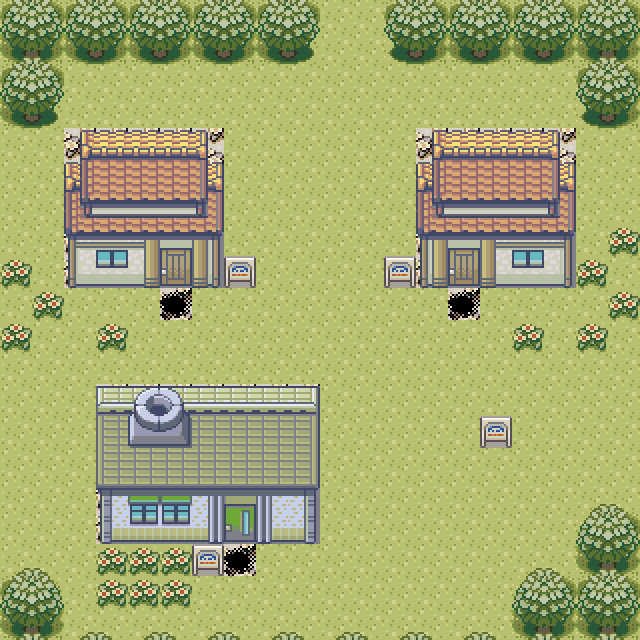
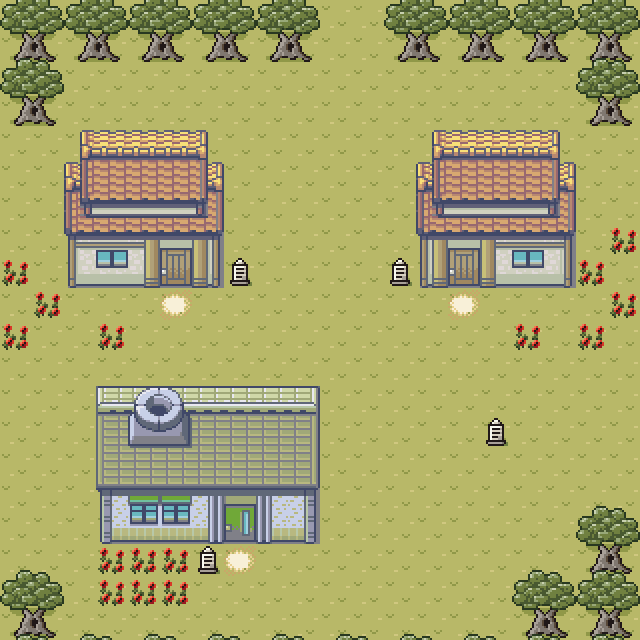
docs(design): document aethos for map builders and render its review images
Map builders need every element's metatile ids, the tree-stacking and
ledge rules, the building footprints and doors, and the Porytiles rules
that keep Petalburg's references intact. TILES_aethos.md lists them,
with what is still Hoenn (door animations, field effects, Petalburg's own
art) and what was only retextured (the cliff set).

The renders are regenerated by tools/ichor/art/aethos_images.py. Littleroot
on aethos + petalburg is a raw render and shows no stray tiles.

Changed region(s): [[0.0, 0.0, 1.0, 1.0]]

diff --git a/tools/ichor/art/aethos_images.py b/tools/ichor/art/aethos_images.py
@@ -1,0 +1,107 @@
+#!/usr/bin/env python3
+"""Regenerate aethos's review images in design/phase1/img/.
+
+  aethos_route101.png    LAYOUT_ROUTE101 on aethos, 2x
+  aethos_littleroot.png  LAYOUT_LITTLEROOT_TOWN on aethos + petalburg, 2x
+                         (raw: Petalburg's tile references are pinned)
+  aethos_village.png     a mock village block built only from aethos
+                         metatiles (throwaway block data, not a map), 2x
+  aethos_coast.png       part of LAYOUT_ROUTE109 on aethos, 2x (Slateport's
+                         own primary references remapped, see aethos_review)
+  aethos_sheet.png       the numbered metatile sheet, 2x
+  aethos_anims.png       every animation, key frame first, 3x
+
+Usage: /usr/bin/python3 tools/ichor/art/aethos_images.py
+"""
+import subprocess
+import sys
+import tempfile
+from pathlib import Path
+
+import numpy as np
+from PIL import Image, ImageDraw, ImageFont
+
+ROOT = Path(__file__).resolve().parents[3]
+IMG = ROOT / "design/phase1/img"
+PY = sys.executable
+RENDER = ROOT / "tools/ichor/render_map.py"
+REVIEW = ROOT / "tools/ichor/art/aethos_review.py"
+
+VILLAGE = """
+1CE 1CF 001 001 001 001 001 001 001 001 001 001 001 001 001 001 001 001 001 001 001 001 1CE 1CF
+1D4 1D5 00E 001 001 001 001 048 049 04A 04B 001 001 028 029 029 02B 001 001 00E 01E 01F 1D4 1D5
+1DC 1DD 016 001 001 001 001 050 051 052 053 001 001 030 031 032 033 001 001 016 026 027 1DC 1DD
+1D4 1D5 004 004 001 001 001 058 059 05A 05B 001 001 038 039 03A 03B 001 001 001 001 001 1D4 1D5
+1E4 1E5 004 001 001 003 001 060 061 062 063 001 001 060 041 042 043 001 01B 001 001 001 1DC 1DD
+001 001 001 001 1D0 1D1 1D1 1D1 1D1 1D1 1D1 1D1 1D1 1D1 1D1 1D1 1D1 1D1 1D1 1D2 001 001 1D4 1D5
+1CE 1CF 001 001 1D8 1D9 1D9 1D9 1D9 1D9 1D9 1D9 1D9 1D9 1D9 1D9 1D9 1D9 1D9 1DA 001 0E0 1E4 1E5
+1D4 1D5 001 001 1E0 1E1 1E1 1E1 1E1 1E1 1E1 1E1 1E1 1E1 1E1 1E1 1E1 1E1 1E1 1E2 001 001 001 001
+1E4 1E5 148 149 149 149 14A 001 001 008 009 00A 001 00D 00D 00D 00D 00D 001 001 004 001 001 001
+001 001 001 004 001 001 001 001 001 010 011 012 001 00D 00D 00D 00D 00D 00D 001 001 001 001 001
+001 001 001 001 001 001 001 001 001 018 019 01A 001 00D 00D 00D 00D 00D 00D 001 001 001 001 001
+001 0D5 087 087 087 087 0D6 001 001 020 021 022 001 001 00D 00D 00D 001 001 001 001 001 001 001
+124 124 124 124 124 124 124 124 124 124 124 124 124 124 124 124 124 124 124 124 124 124 124 124
+12C 12C 12C 12C 12C 12C 12C 12C 12C 12C 12C 12C 12C 12C 12C 12C 12C 12C 12C 12C 12C 12C 12C 12C
+170 170 170 18C 170 170 170 170 170 170 170 170 170 170 170 170 170 18C 170 170 170 170 170 170
+170 170 170 170 170 170 170 170 170 170 170 170 170 170 170 170 170 170 170 170 170 170 170 170
+"""
+
+
+def run(*args):
+    r = subprocess.run([PY, *map(str, args)], cwd=ROOT, capture_output=True, text=True)
+    if r.returncode:
+        sys.exit(r.stdout + r.stderr)
+
+
+def anims(out, scale=3):
+    base = ROOT / "data/tilesets/primary/aethos/porytiles_src/anim"
+    rows = []
+    for name in ("water", "sand_water_edge", "waterfall", "flower", "land_water_edge"):
+        d = base / name
+        names = ["key"] + sorted([p.stem for p in d.glob("*.png") if p.stem != "key"], key=int)
+        rows.append((name, [Image.open(d / f"{n}.png").convert("RGBA") for n in names]))
+    pad, lab = 6, 14
+    W = max(sum(i.width * scale + pad for i in fr) for _, fr in rows) + pad
+    H = sum(max(i.height for i in fr) * scale + lab + pad for _, fr in rows) + pad
+    sheet = Image.new("RGB", (W, H), (40, 40, 48))
+    d = ImageDraw.Draw(sheet)
+    font = ImageFont.load_default(size=11)
+    y = pad
+    for name, fr in rows:
+        d.text((pad, y), f"{name}: key, then frames", fill=(230, 230, 200), font=font)
+        x = pad
+        for im in fr:
+            bg = Image.new("RGBA", im.size, (24, 40, 80, 255))
+            px = np.array(im)
+            px[(px[..., :3] == (255, 0, 255)).all(-1)] = 0
+            bg.alpha_composite(Image.fromarray(px))
+            sheet.paste(bg.convert("RGB").resize((im.width * scale, im.height * scale), Image.NEAREST),
+                        (x, y + lab))
+            x += im.width * scale + pad
+        y += max(i.height for i in fr) * scale + lab + pad
+    sheet.save(out)
+
+
+def main():
+    IMG.mkdir(parents=True, exist_ok=True)
+    run(RENDER, "LAYOUT_ROUTE101", "--primary", "aethos", "--scale", 2, "-o", IMG / "aethos_route101.png")
+    run(RENDER, "LAYOUT_LITTLEROOT_TOWN", "--primary", "aethos", "--secondary", "petalburg",
+        "--scale", 2, "-o", IMG / "aethos_littleroot.png")
+    with tempfile.TemporaryDirectory() as tmp:
+        rows = [r.split() for r in VILLAGE.strip().split("\n")]
+        blocks = np.array([[int(v, 16) for v in r] for r in rows], np.uint16)
+        bin_path = Path(tmp) / "aethos_village.bin"
+        blocks.tofile(bin_path)
+        run(RENDER, "--blockdata", bin_path, "--width", blocks.shape[1], "--primary", "aethos",
+            "--secondary", "petalburg", "--scale", 2, "-o", IMG / "aethos_village.png")
+        full = Path(tmp) / "r109.png"
+        run(REVIEW, "LAYOUT_ROUTE109", "--remap", "--scale", 1, "-o", full)
+        im = Image.open(full).crop((0, 400, 480, 720))
+        im.resize((im.width * 2, im.height * 2), Image.NEAREST).save(IMG / "aethos_coast.png")
+    run(RENDER, "--sheet", "aethos", "--scale", 2, "-o", IMG / "aethos_sheet.png")
+    anims(IMG / "aethos_anims.png")
+    print("wrote", ", ".join(sorted(p.name for p in IMG.glob("aethos_*.png"))))
+
+
+if __name__ == "__main__":
+    main()

diff --git a/design/phase1/TILES_aethos.md b/design/phase1/TILES_aethos.md
@@ -1,0 +1,233 @@
+# aethos: the outdoor primary tileset
+
+`gTileset_Aethos` is Aethos's outdoor world. It replaces vanilla `gTileset_General` and keeps every one of General's 512 metatile ids, behaviors and layer types. Any layout built on General therefore means the same thing on aethos: the same tree is a tree, the same ledge jumps the same way.
+
+The art is redrawn from scratch: olives, cypresses and stone pines; sun-bleached grass and wild barley; limestone paths and dry-stone terraces; the Aegean; and marble buildings.
+
+## Images (`design/phase1/img/`)
+
+| File | What |
+|---|---|
+| `aethos_route101.png` | `LAYOUT_ROUTE101`, `--primary aethos`, 2× |
+| `aethos_littleroot.png` | `LAYOUT_LITTLEROOT_TOWN`, `--primary aethos --secondary petalburg`, 2×. A raw render with no remap: Petalburg's references into the primary are pinned (see Porytiles below). The houses are Petalburg's own art. |
+| `aethos_village.png` | A mock village block built only from aethos metatiles, 2×. Throwaway block data, not a map. |
+| `aethos_coast.png` | Part of `LAYOUT_ROUTE109`, 2×. Slateport's own references into the primary are remapped for the preview (`aethos_review.py --remap`). The umbrellas and chairs are Slateport's. |
+| `aethos_sheet.png` | The numbered metatile sheet, 2×. |
+| `aethos_anims.png` | Every animation, key frame first. |
+
+Regenerate the tileset with `/usr/bin/python3 tools/ichor/art/paint_aethos.py`, then the images with `tools/ichor/art/aethos_images.py`.
+
+## Metatile ids for map builders
+
+Collision lives in the map data, as before. Behaviors are General's: tall grass is `MB_TALL_GRASS`, ledges keep their jump direction, and doors are `MB_ANIMATED_DOOR`.
+
+### Ground
+
+| Id | Element |
+|---|---|
+| `001` | Grass |
+| `002` | Grass under a ledge or cliff lip (a thin shadow line on top) |
+| `01C` | Grass in deep shade |
+| `00D` | **Tall grass** (wild encounters): barley tufts with gold seed heads |
+| `015` | Long grass: reeds |
+| `004` | Red anemones (animated) |
+| `000` | Void (the night-sea backdrop) |
+
+**Limestone path patch.** `1D0` `1D1` `1D2` / `1D8` `1D9` `1DA` / `1E0` `1E1` `1E2`, laid out as TL T TR / L C R / BL B BR. `1D9` is the open path.
+
+**Tilled earth.** `103` `104` `105` / `10B` `10C` `10D` / `113` `114` `115`, in the same layout.
+- `10C`, `14C`, `12E` and `12F` are `MB_BERRY_TREE_SOIL`.
+- `14B` `14C` `14D` is a plot's top edge: corner, edge, corner.
+
+**Volcanic ash.** `100` `101` `102` / `108` `109` `10A` / `110` `111` `112`.
+
+### Trees
+
+The **olive** is 2×2, and its crown pokes 3 px into the row above on the top layer, so the player walks behind it.
+
+| Part | Ids |
+|---|---|
+| Top half | `1D4` `1D5` (`1D6` `1D7` are identical) |
+| Bottom half, nothing below | `1E4` `1E5` (`1E6` `1E7` identical) |
+| Bottom half, with the crown tip of an olive below it | `1DC` `1DD` (`1DE` `1DF`, `1F2` `1F3` identical) |
+| Crown tip in the row above, over grass | `1CE` `1CF` |
+| … over tall grass | `1C6` `1C7` |
+| … over ledge grass | `1E8` `1E9` |
+| … over ash | `1EA` `1EB` |
+| … over rock | `1EE` `1EF`, `1F0` `1F1` |
+| … over the sea | `1F6` `1F7` |
+| … over a pond | `1FE` `1FF` |
+| Olive top half on the top layer, over ledge grass | `1FC` `1FD` |
+
+**Stacking.** For a column of olives, use top, then bottom-with-tip, then top, and end with a plain bottom (`1E4` `1E5`).
+- Above the first olive, put a tip metatile (`1CE` `1CF`), or the crown is cut flat.
+- Below a bottom-with-tip, the next olive must start.
+
+The **cypress spire** is 1×2. Its top half is on the top layer.
+
+| Part | Ids |
+|---|---|
+| Top half, over grass | `00E`, `00F`, `0C6`, `0C7` (identical) |
+| … over ledge grass, tall grass, pond, sea, rock or a white kerb | `01D`, `025`, `02D`, `035` / `193`, `0CE`, `040` |
+| Bottom half | `016`, `017` (identical) |
+| Cypress top over an olive bottom | `1EC` `1ED` |
+| Cypress bottom under an olive tip | `1F4` `1F5` |
+
+The **stone pine** (General's secret-base tree) is 2×2.
+- Top: `01E` `01F` (`02E` `02F` identical).
+- Bottom: `026` `027`.
+- `036` `037` are the same with a dark hollow between the roots, the secret-base "open" spot.
+
+### Edges and props
+
+**Ledges** are dry-stone terrace lips. The ground under them comes from the family.
+
+| Ledge | S | W | E | SW | SE | S, left end | S, right end | Inner corner |
+|---|---|---|---|---|---|---|---|---|
+| on grass | `087` | `085` | `086` | `08D` | `08E` | `0D5` | `0D6` | `06E` |
+| on rock floor | `08F` | `095` | `096` | `09D` | `09E` | `0DD` | `0DE` | |
+| on sand | `097` | `0A5` | `0A6` | `0AD` | `0AE` | `0E5` | `0E6` | |
+
+More W/E lips: `0FE`/`0FF` and `106`/`107` (grass), `10E`/`10F` and `116`/`117` (rock), `11E`/`11F` and `126`/`127` (sand).
+
+A step-shaped ledge, as in Route 101: `0D5 087 … 08E` on the lower row, and `06E 087 … 0D6` on the row above it.
+
+**Dry-stone walls** (General's metal fence).
+
+| Wall | Ids |
+|---|---|
+| West–east, middle layer | `148` left end, `149` run, `14A` right end; `134` run |
+| West–east, top layer (walk behind it) | `138` left end, `13A` right end |
+| North–south, middle layer | `132` (west side of the tile), `133` (east side) |
+| North–south, top layer | `139`, `140` (west side); `141`, `142` (east side) |
+
+Set walls impassable in the collision data.
+
+**Signs and markers.**
+- `003`: a marble stele with a pediment and a gold finial. Use it for town and route signs (bg events, as before).
+- `01B`: a roadside herm, a stone pillar with a bearded head (General's trainer-tips board).
+- `130` (top layer) over `131`: a bronze tripod on a marble plinth (General's gym sign).
+
+**Rocks and other props.**
+- Boulders: `0E0` on grass, `0E1` on rock, `0E2` on sand.
+- Sea boulders with a foam ring: `0C5`, `0CD`, `18C` and `194` (middle layer), and `0BD` (top layer).
+- Marble steps: `0AF`, `0CF`.
+- Pebble mosaic threshold: `024` (`MB_SOUTH_ARROW_WARP`, the exit mat).
+- Anemone troughs: `005`, `006`, `007`.
+- General has no cut-tree metatile: cuttable trees are object events, outside this tileset.
+
+### Coast and water
+
+| Ids | Element |
+|---|---|
+| `170` | Open sea, calm water (animated) |
+| `14E`, `14F` | Rough and deep water (currents, dive spots) |
+| `147`, `156` | Interior deep water |
+| `11B` `11C` `11D` / `123` `124` `125` / `12B` `12C` `12D` | A sand island or beach in the sea, laid out TL T TR / L C R / BL B BR. Its edges animate the surf. `124` is plain sand. |
+| `150`–`16F`, `172`–`17F` | Sea stacks and reefs: pale gray stone in the sea, at General's ids |
+| `0B3`, `0BB`, `0BC`; `04C`, `0B9`, `0C1`, `054` | Waterfall: falling water, the lip, and the plunge pool |
+| `0B0`–`0DA` | Ponds, at General's ids |
+
+Shallows (turquoise over sand), rocky shores and pond edges keep General's ids.
+
+### Buildings
+
+All doors are `MB_ANIMATED_DOOR` at General's ids, so existing warps work.
+
+**Asclepeion** (Pokémon Center, 4×4). Door `061`, plaque with the rod of Asclepius `062`.
+
+```
+048 049 04A 04B
+050 051 052 053
+058 059 05A 05B
+060 061 062 063
+```
+
+**Agora** (Mart, 4×4). Door `041`, pinax sign `042`. The middle of the roof repeats `029`, and `02A` is unused, as in General.
+
+```
+028 029 029 02B
+030 031 032 033
+038 039 03A 03B
+060 041 042 043
+```
+
+**Shared corner.** Both buildings share the corner `060`, as General's did: an anta, the shaded wall, and the first column.
+
+**Farmhouse** (General's route house, 3×4). Door `021`. `00B`, `00C`, `013` and `014` are plain whitewashed wall pieces.
+
+```
+008 009 00A
+010 011 012
+018 019 01A
+020 021 022
+```
+
+**Palaestra** (General's gym, 6×5). Door `1CD`, porch pediment `1C5`. `1AB` and `1B3` repeat, as in General.
+
+```
+1AA 1AB 1AB 1AB 1AB 1AC
+1B2 1B3 1B3 1B3 1B3 1B4
+1B8 1B9 1BA 1B3 1BB 1BC
+1C0 1C1 1C2 1C5 1C3 1C4
+1C8 1C9 1CA 1CD 1CB 1CC
+```
+
+**Theater door** `1DB` (General's contest-hall door), under a gold mask.
+
+### Not redrawn, only retextured
+
+These kept General's shapes and were rebuilt from General's materials in aethos's palettes and textures:
+- the mountain cliff set (`068`–`0FF` and the rock walls) in warm limestone with strata
+- the bike rails and bridges (`0EC`–`0FD`)
+- the muddy slope (`0E8`–`0EB`)
+- the bumpy slope (`1F8`, `1F9`)
+- the secret-base cave spots (`1A0`–`1B1`)
+- the cave mouths (`09F`, `0A7`)
+- the white kerbs (`03D`–`067`)
+- the gym roof's leftover corner (`1D3`)
+
+They no longer read as Hoenn, but the cliffs in particular deserve a hand-drawn pass before Kronion Hill's terraces are built.
+
+## Porytiles rules for this tileset
+
+Hoenn secondaries point into the primary by **tile index** and **palette slot**. The slice maps still pair with Petalburg, so aethos is built to keep Petalburg working.
+
+**Locked palettes.** `porytiles/tilesets/gTileset_Aethos/config.yaml` locks palettes and patches tiles. The six palettes are written by `aethos_bin.py` and Porytiles never changes them.
+
+| Palette | Family | Holds |
+|---|---|---|
+| 0 | marble | buildings |
+| 1 | plaza | marble and clay on grass |
+| 2 | grove | olives, cypresses, pines, trunks, grass |
+| 3 | earth | limestone, ledges, cliffs, paths, soil |
+| 4 | meadow | tall grass, anemones |
+| 5 | sea | the Aegean, surf, sand |
+
+- Petalburg's own tiles use palette 2's slots 2–4 and 14–15 and palette 5's slots 11–13. Those slots hold the aethos versions of General's greens and sand.
+- Every palette keeps General's slot *roles* where it can, so other Hoenn art that borrows them shows a recolor, not noise.
+- Palette 0's color 0 is the backdrop, a night-sea navy.
+
+**Pinned tiles.** The 62 tile indices Petalburg uses are seeded into `tiles.png` before compiling, each holding the aethos art for what General had there. Patch mode keeps them and fills the free slots with the rest.
+
+**Animations.** They sit at General's offsets (water 432, surf 464, rocky surf 480, waterfall 496, anemones 508). Every animated reference in aethos matches General's slot.
+
+**Verification.** The build checks that the pins survived. It then runs a compile with checksum verification on and fails if that changes anything. kalliste and temple_hestia compile against it cleanly.
+- No layout uses them yet, so pair them by hand: `porytiles compile-tileset gTileset_Kalliste --primary-pairing-mode manual --primary-pairing-partners gTileset_Aethos`.
+
+**Budget.** 18 free tile slots remain in the primary. New Greek pieces belong in secondaries, which have their own 512.
+
+**Don't hand-edit `porytiles_src` or `porytiles_bin`.** Change the painters in `tools/ichor/art/aethos_*.py` and rerun `paint_aethos.py`.
+- `aethos_palcheck.py` explains palette trouble.
+- `aethos_review.py --remap` previews aethos under any other Hoenn secondary, which still points at General's tile numbers.
+
+## What map builders and other streams must know
+
+- **Use aethos with a Greek secondary** (kalliste, temple_hestia).
+  - Petalburg works as a stopgap: no stray tiles. But its own houses, door mats and the Pokémon Center roof corners `282` and `283` are still Hoenn art.
+  - Any other Hoenn secondary renders wrong on aethos, because only Petalburg is pinned.
+- **Door animations are still Hoenn.**
+  - `graphics/door_anims/general.png`, `poke_center.png` and `poke_mart.png` play over `021`, `061` and `041`. They are drawn in General's palette slots, now aethos colors, so the opening frames show a recolored Hoenn door.
+  - They need redrawing to match the Asclepeion, Agora and farmhouse doors.
+- **Field effects are outside the tileset** and still Hoenn: the tall-grass rustle, the ripples, sand footprints.
+- **Not yet seen in-game.** No map uses aethos yet, so it was checked in renders. The ROM builds, and every animated metatile points at its animation slot.
